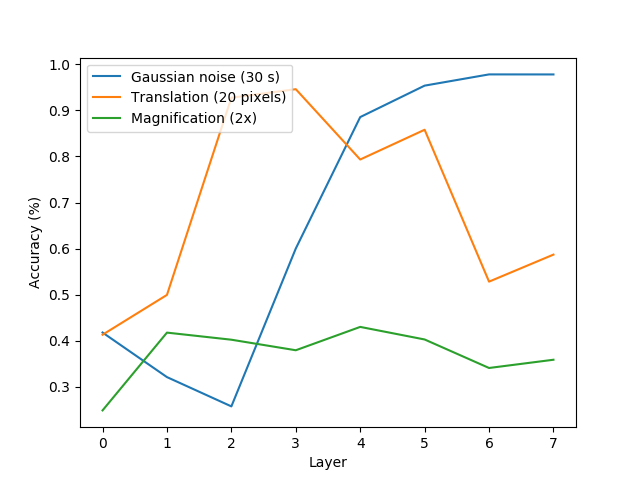
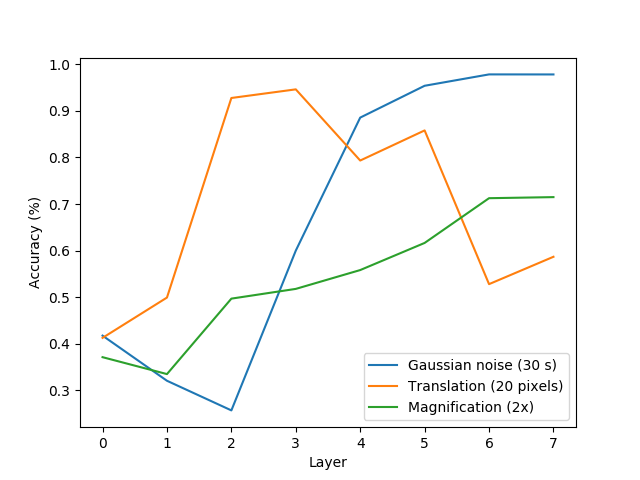
Trying few shot learning to improve gaussian noise performance

diff --git a/src/layereval.py b/src/layereval.py
@@ -2,7 +2,7 @@ from matplotlib import pyplot
 
 NOISE = [0.4177, 0.3209, 0.2573, 0.6001, 0.8855, 0.9538, 0.9782, 0.9781]
 TRANS = [0.4129, 0.4994, 0.9276, 0.9461, 0.7934, 0.8580, 0.5282, 0.5869]
-MAG = [0.2486, 0.4175, 0.4021, 0.3792, 0.4299, 0.4026, 0.3407, 0.3586]
+MAG = [0.3715, 0.3352, 0.4971, 0.5180, 0.5584, 0.6166, 0.7126, 0.7149]
 pyplot.plot(NOISE)
 pyplot.plot(TRANS)
 pyplot.plot(MAG)

diff --git a/src/deepconsensus.py b/src/deepconsensus.py
@@ -266,7 +266,7 @@ class Model(ResNet):
     def forward(self, X):
         self.layer_outputs = list(self.do_consensus(X))
         
-        if self.training or self.layerweights is None:
+        if self.layerweights is None: # self.training or 
             out = sum(self.layer_outputs)
         else:
             out = sum([t*p for t, p in zip(self.layerweights, self.layer_outputs)])
